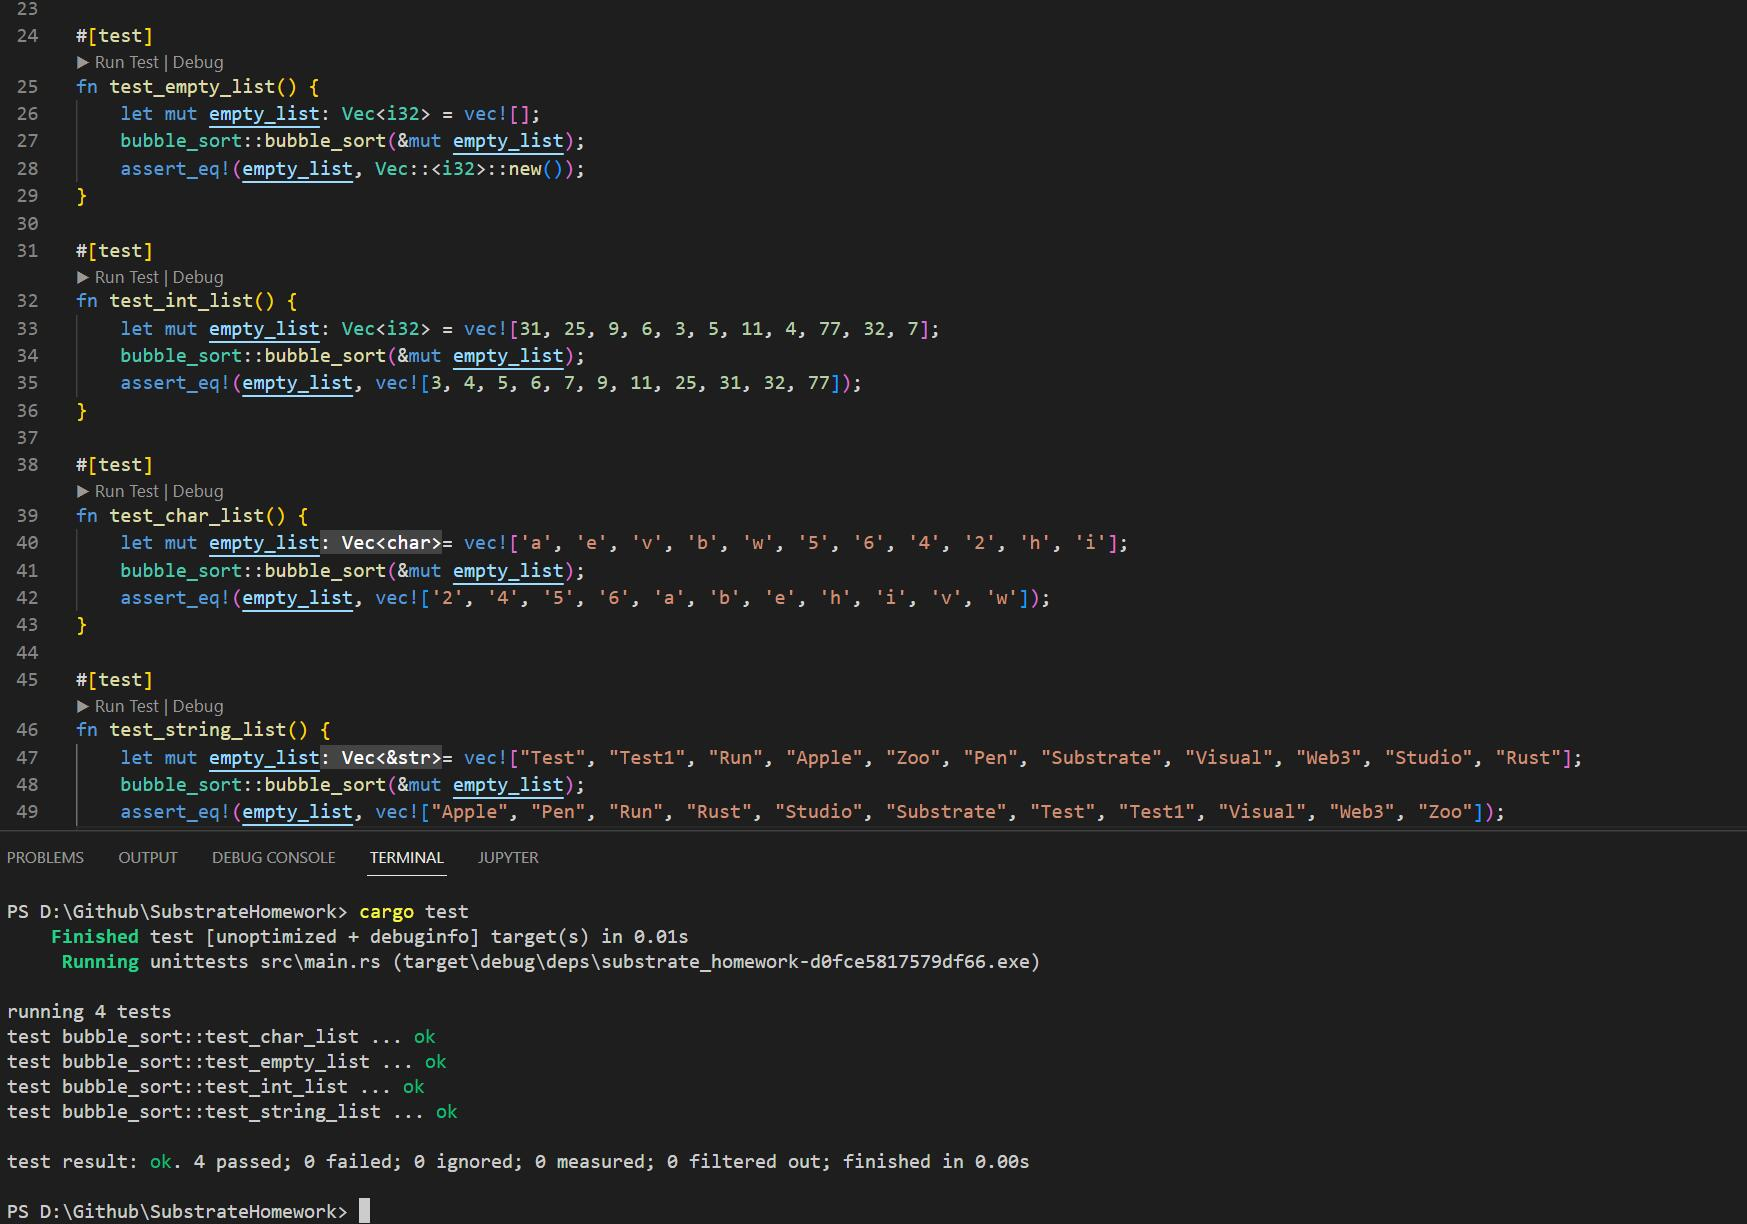
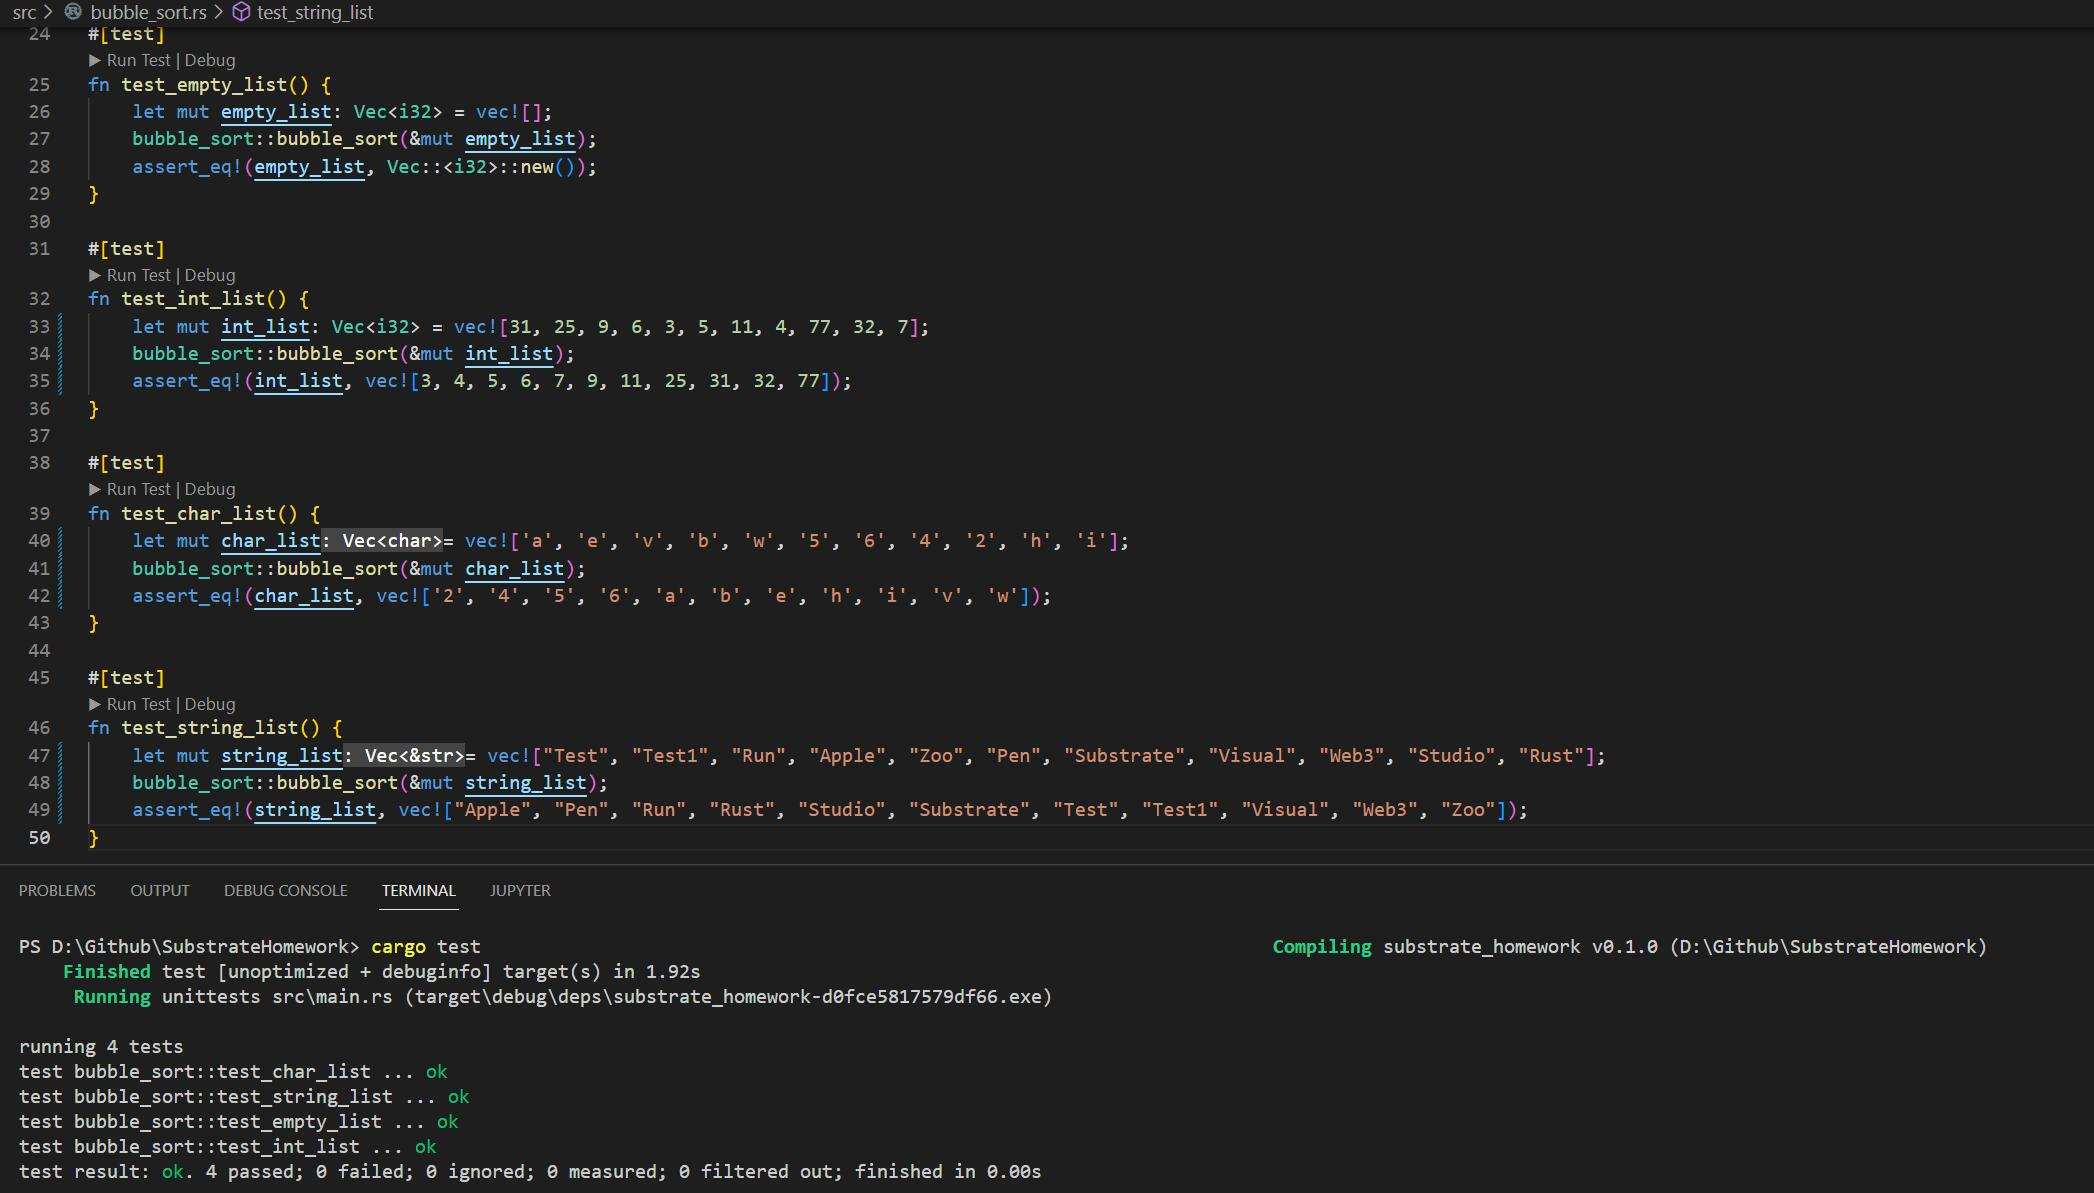
Change list name

diff --git a/src/bubble_sort.rs b/src/bubble_sort.rs
@@ -30,21 +30,21 @@ fn test_empty_list() {
 
 #[test]
 fn test_int_list() {
-    let mut empty_list: Vec<i32> = vec![31, 25, 9, 6, 3, 5, 11, 4, 77, 32, 7];
-    bubble_sort::bubble_sort(&mut empty_list);
-    assert_eq!(empty_list, vec![3, 4, 5, 6, 7, 9, 11, 25, 31, 32, 77]);
+    let mut int_list: Vec<i32> = vec![31, 25, 9, 6, 3, 5, 11, 4, 77, 32, 7];
+    bubble_sort::bubble_sort(&mut int_list);
+    assert_eq!(int_list, vec![3, 4, 5, 6, 7, 9, 11, 25, 31, 32, 77]);
 }
 
 #[test]
 fn test_char_list() {
-    let mut empty_list= vec!['a', 'e', 'v', 'b', 'w', '5', '6', '4', '2', 'h', 'i'];
-    bubble_sort::bubble_sort(&mut empty_list);
-    assert_eq!(empty_list, vec!['2', '4', '5', '6', 'a', 'b', 'e', 'h', 'i', 'v', 'w']);
+    let mut char_list= vec!['a', 'e', 'v', 'b', 'w', '5', '6', '4', '2', 'h', 'i'];
+    bubble_sort::bubble_sort(&mut char_list);
+    assert_eq!(char_list, vec!['2', '4', '5', '6', 'a', 'b', 'e', 'h', 'i', 'v', 'w']);
 }
 
 #[test]
 fn test_string_list() {
-    let mut empty_list= vec!["Test", "Test1", "Run", "Apple", "Zoo", "Pen", "Substrate", "Visual", "Web3", "Studio", "Rust"];
-    bubble_sort::bubble_sort(&mut empty_list);
-    assert_eq!(empty_list, vec!["Apple", "Pen", "Run", "Rust", "Studio", "Substrate", "Test", "Test1", "Visual", "Web3", "Zoo"]);
+    let mut string_list= vec!["Test", "Test1", "Run", "Apple", "Zoo", "Pen", "Substrate", "Visual", "Web3", "Studio", "Rust"];
+    bubble_sort::bubble_sort(&mut string_list);
+    assert_eq!(string_list, vec!["Apple", "Pen", "Run", "Rust", "Studio", "Substrate", "Test", "Test1", "Visual", "Web3", "Zoo"]);
 }
